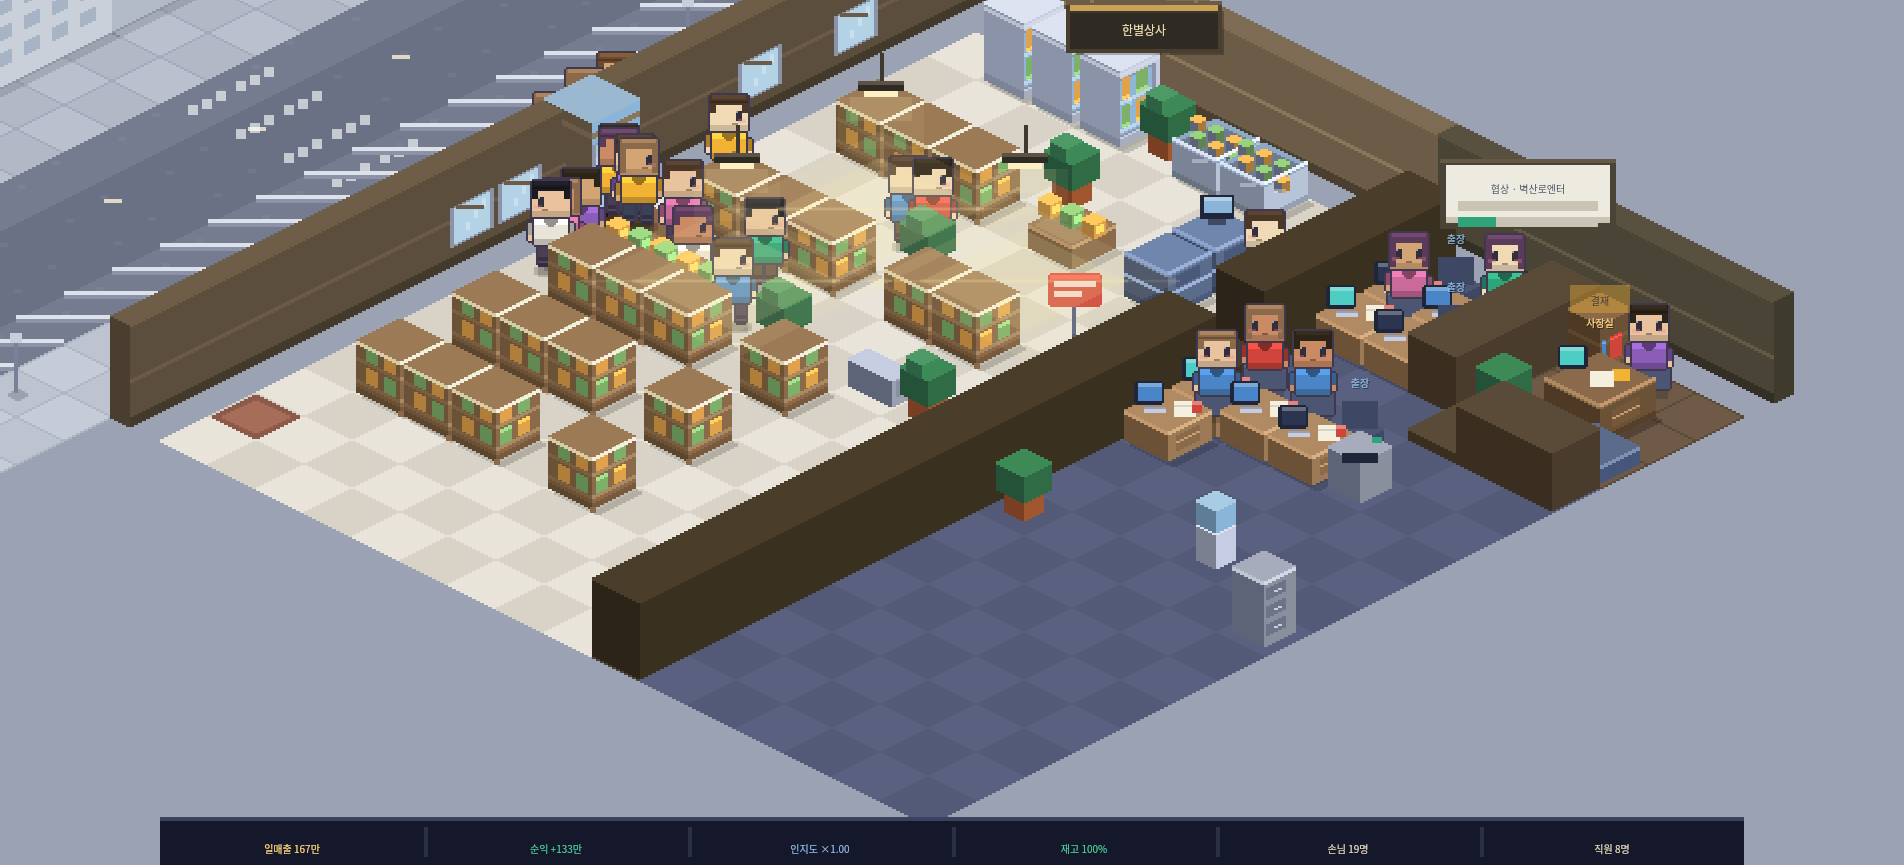
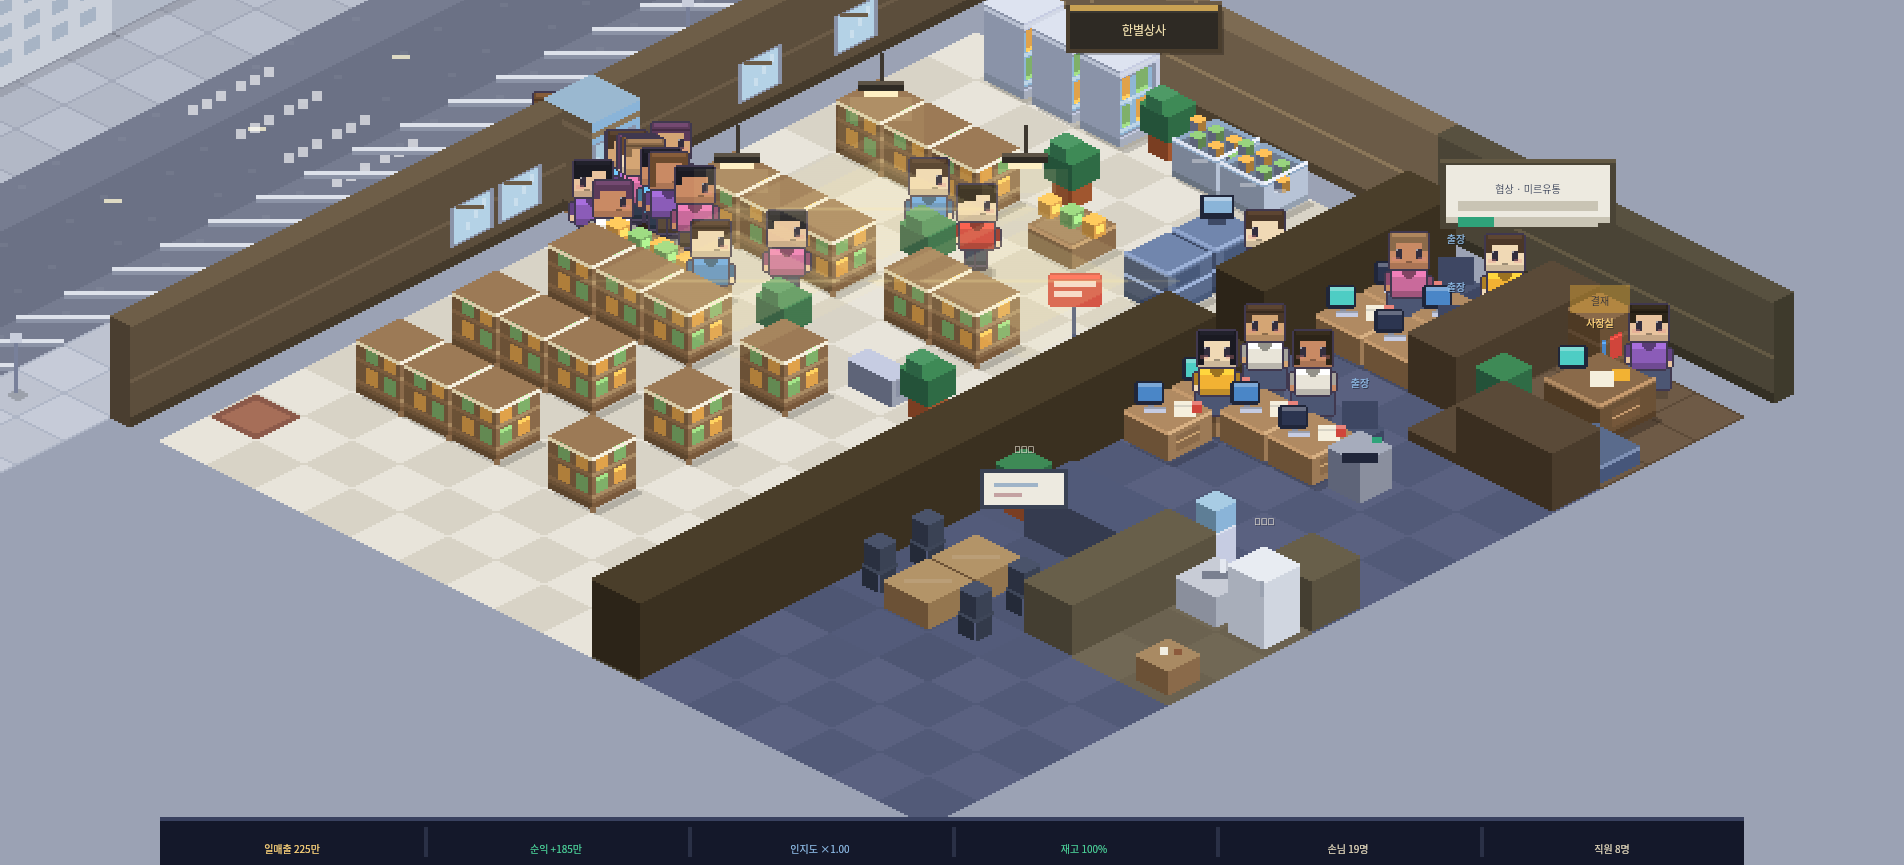
feat: 부속실 — 탕비실과 회의실
등급이 방을 깊게 만들면 사무실 남쪽이 빈 바닥으로 남는다. 책상을 더 놓아
메우려면 정원(staffCap)까지 같이 올려야 하는데 그건 밸런스를 건드리는 일이다.
**빈 자리를 사람이 아니라 공간으로 채운다** — 회사가 커지면 회의실과 탕비실이
생긴다는 건 그 자체로 성장의 그림이고, 규칙은 하나도 안 건드린다.

- STORE_GRADE 에 rooms. 중견기업에서 탕비실, 글로벌그룹에서 회의실이 더 열린다
- 탕비실: 싱크대 · 냉장고 · 커피 놓인 탁자
- 회의실: 긴 탁자와 마주 앉는 의자, 벽에 붙은 화이트보드
- 칸막이는 북쪽 첫 칸을 비워 출입구로 쓴다

손님은 gx < SPLIT_GX 밖으로 나오지 않으므로 통행 판정에 걸릴 일이 없다.
겉모습은 등급이 자동으로 연다는 기존 규칙 그대로다.

SAVE_V 무변경. smoke 143/143.

diff --git a/src/render/store.js b/src/render/store.js
@@ -497,6 +497,7 @@ function drawStore() {
   addOffice(items);
   addWindows(items);
   addShopStaff(items);
+  addRooms(items);
   addDeco(items);
   drawPartition(items);
   stepCustomers(items);
@@ -628,6 +629,91 @@ function addShopStaff(items) {
     if (!e.look) e.look = newLook(e.trait.id === 'star' ? '#F2B233' : null);
     items.push({ y, f: () => drawPerson(x, y, e.look, i % 2 ? 'e' : 's', Math.floor(frame / 34 + i) % 2) });
   });
+}
+
+/* ══════════════════════════════════════════════════════════════
+   부속실 — 탕비실 · 회의실
+
+   등급이 방을 깊게 만들면 사무실 남쪽이 빈 바닥으로 남는다. 책상을 더 놓아
+   메우려면 정원(staffCap)까지 같이 올려야 하는데, 그건 밸런스를 건드리는 일이다.
+   **빈 자리를 사람이 아니라 공간으로 채운다** — 회사가 커지면 회의실과 탕비실이
+   생긴다는 건 그 자체로 성장의 그림이고, 규칙은 하나도 안 건드린다.
+
+   손님은 gx < SPLIT_GX 밖으로 나오지 않으므로 통행 판정에 걸릴 일이 없다.
+   ══════════════════════════════════════════════════════════════ */
+const ROOMS = [
+  { need: 1, n: '탕비실', gx: 14, gy: 9, w: 2, h: 3, floor: '#6B6250', wall: '#5A5240' },
+  { need: 2, n: '회의실', gx: 10, gy: 10, w: 3, h: 4, floor: '#4E5673', wall: '#464E68' },
+];
+
+function addRooms(items) {
+  const lv = gradeOf(S).rooms;
+  for (const r of ROOMS) {
+    if (lv < r.need || r.gy + r.h > roomH()) continue;
+    /* 바닥과 칸막이 — 문은 북쪽 한 칸을 비워 둔다 */
+    for (let dx = 0; dx < r.w; dx++) for (let dy = 0; dy < r.h; dy++) {
+      const { x, y } = P(r.gx + dx, r.gy + dy);
+      items.push({ y: y - 0.6, f: () => rhomb(X, x, y, HW, HH, ((dx + dy) & 1) ? r.floor : shade(r.floor, 0.06)) });
+    }
+    for (let dx = 0; dx < r.w; dx++) {                       // 북쪽 벽 (첫 칸이 출입구)
+      if (dx === 0) continue;
+      const { x, y } = P(r.gx + dx, r.gy - 1);
+      items.push({ y, f: () => prism(X, x, y, HW, HH, 26, shade(r.wall, 0.16), shade(r.wall, -0.24), r.wall) });
+    }
+    for (let dy = 0; dy < r.h; dy++) {                       // 서쪽 벽
+      const { x, y } = P(r.gx - 1, r.gy + dy);
+      items.push({ y, f: () => prism(X, x, y, HW, HH, 26, shade(r.wall, 0.16), shade(r.wall, -0.24), r.wall) });
+    }
+    if (r.n === '탕비실') addPantry(items, r); else addMeeting(items, r);
+    const lab = P(r.gx, r.gy - 1);
+    items.push({ y: lab.y + 0.5, f: () => drawText(lab.x, lab.y - 30, r.n, { size: 9, color: '#E8E2D2' }) });
+  }
+}
+
+/** 탕비실 — 싱크대와 냉장고, 커피 한 잔 */
+function addPantry(items, r) {
+  const sink = P(r.gx, r.gy);
+  items.push({ y: sink.y, f: () => {
+    prism(X, sink.x, sink.y, 20, 10, 16, '#C8CCD6', '#8A8F9C', '#A8AEBA');
+    X.fillStyle = '#7A8090'; X.fillRect(Math.round(sink.x) - 7, Math.round(sink.y) - 19, 14, 4);
+    X.fillStyle = '#E4E8F0'; X.fillRect(Math.round(sink.x) + 2, Math.round(sink.y) - 25, 3, 7);   // 수도
+  } });
+  const fr = P(r.gx + 1, r.gy);
+  items.push({ y: fr.y, f: () => {
+    prism(X, fr.x, fr.y, 18, 9, 34, '#E8ECF2', '#A8AEBA', '#D0D6E0');
+    X.fillStyle = '#9AA2B0'; X.fillRect(Math.round(fr.x) - 2, Math.round(fr.y) - 26, 2, 8);
+  } });
+  const tb = P(r.gx + 1, r.gy + 2);
+  items.push({ y: tb.y, f: () => {
+    prism(X, tb.x, tb.y, 16, 8, 13, '#A98A63', '#6B5136', '#8A6A4A');
+    X.fillStyle = '#F2EEE2'; X.fillRect(Math.round(tb.x) - 4, Math.round(tb.y) - 17, 4, 4);       // 컵
+    X.fillStyle = '#8C5A3C'; X.fillRect(Math.round(tb.x) + 3, Math.round(tb.y) - 16, 4, 3);
+  } });
+}
+
+/** 회의실 — 긴 탁자와 의자, 벽에 붙은 화이트보드 */
+function addMeeting(items, r) {
+  for (let dy = 1; dy < r.h - 1; dy++) {
+    const t = P(r.gx + 1, r.gy + dy);
+    items.push({ y: t.y, f: () => {
+      prism(X, t.x, t.y, 22, 11, 14, '#B39468', '#6B5136', '#94764F');
+      X.fillStyle = 'rgba(255,255,255,.10)'; X.fillRect(Math.round(t.x) - 12, Math.round(t.y) - 15, 24, 2);
+    } });
+    for (const dx of [0, 2]) {
+      const c = P(r.gx + dx, r.gy + dy);
+      items.push({ y: c.y, f: () => {
+        prism(X, c.x, c.y, 9, 5, 10, '#3E4658', '#242A38', '#333A4A');
+        prism(X, c.x, c.y - 10, 8, 4, 12, '#4A536A', '#2A3040', '#3A4254');
+      } });
+    }
+  }
+  const wb = P(r.gx + 1, r.gy);
+  items.push({ y: wb.y - 0.4, f: () => {
+    X.fillStyle = '#3A4254'; X.fillRect(Math.round(wb.x) - 22, Math.round(wb.y) - 46, 44, 20);
+    X.fillStyle = '#EDEAE0'; X.fillRect(Math.round(wb.x) - 20, Math.round(wb.y) - 44, 40, 16);
+    X.fillStyle = '#9FB4C8'; X.fillRect(Math.round(wb.x) - 15, Math.round(wb.y) - 39, 22, 2);
+    X.fillStyle = '#C4A2A2'; X.fillRect(Math.round(wb.x) - 15, Math.round(wb.y) - 34, 14, 2);
+  } });
 }
 
 /** 입구 러그와 화분. 사람이 오가는 자리를 피해 벽 쪽에만 둔다 */

diff --git a/src/core/data.js b/src/core/data.js
@@ -92,14 +92,14 @@ const SECTOR_KEYS = Object.keys(SECTORS);
    늘리면 대기업과 글로벌그룹이 눈으로 구분되지 않는다.
    ══════════════════════════════════════════════════════════════ */
 const STORE_GRADE = [
-  //                깊이 진열대 계산대 냉장 조명 장식 창 러그 바닥 손님 벽
-  { depth: 0, shelf: 1, counter: 0, cold: 1, light: 0, deco: 0, win: 0, rug: 0, floor: 0, crowd:  4 },  // 구멍가게
-  { depth: 1, shelf: 2, counter: 1, cold: 2, light: 1, deco: 1, win: 0, rug: 0, floor: 0, crowd:  6 },  // 동네슈퍼
-  { depth: 3, shelf: 3, counter: 1, cold: 3, light: 1, deco: 1, win: 1, rug: 0, floor: 1, crowd:  9 },  // 스타트업
-  { depth: 3, shelf: 3, counter: 2, cold: 4, light: 2, deco: 2, win: 2, rug: 0, floor: 1, crowd: 12 },  // 중소기업
-  { depth: 4, shelf: 4, counter: 2, cold: 5, light: 2, deco: 2, win: 3, rug: 1, floor: 2, crowd: 15 },  // 중견기업
-  { depth: 6, shelf: 5, counter: 3, cold: 5, light: 3, deco: 3, win: 4, rug: 1, floor: 2, crowd: 18 },  // 대기업
-  { depth: 8, shelf: 5, counter: 3, cold: 5, light: 3, deco: 3, win: 4, rug: 1, floor: 3, crowd: 22 },  // 글로벌그룹
+  //                깊이 진열대 계산대 냉장 조명 장식 창 러그 바닥 손님 부속실 벽
+  { depth: 0, shelf: 1, counter: 0, cold: 1, light: 0, deco: 0, win: 0, rug: 0, floor: 0, crowd:  4, rooms: 0 },  // 구멍가게
+  { depth: 1, shelf: 2, counter: 1, cold: 2, light: 1, deco: 1, win: 0, rug: 0, floor: 0, crowd:  6, rooms: 0 },  // 동네슈퍼
+  { depth: 3, shelf: 3, counter: 1, cold: 3, light: 1, deco: 1, win: 1, rug: 0, floor: 1, crowd:  9, rooms: 0 },  // 스타트업
+  { depth: 3, shelf: 3, counter: 2, cold: 4, light: 2, deco: 2, win: 2, rug: 0, floor: 1, crowd: 12, rooms: 0 },  // 중소기업
+  { depth: 4, shelf: 4, counter: 2, cold: 5, light: 2, deco: 2, win: 3, rug: 1, floor: 2, crowd: 15, rooms: 1 },  // 중견기업
+  { depth: 6, shelf: 5, counter: 3, cold: 5, light: 3, deco: 3, win: 4, rug: 1, floor: 2, crowd: 18, rooms: 1 },  // 대기업
+  { depth: 8, shelf: 5, counter: 3, cold: 5, light: 3, deco: 3, win: 4, rug: 1, floor: 3, crowd: 22, rooms: 2 },  // 글로벌그룹
 ];
 
 const gradeOf = s => STORE_GRADE[Math.min(STORE_GRADE.length - 1, s.co.tier)];
